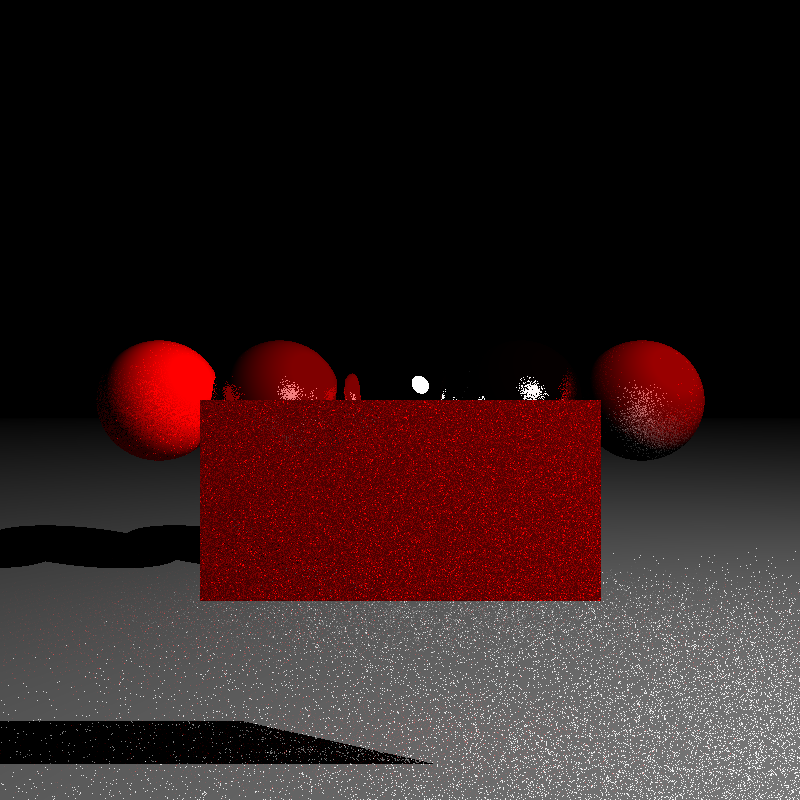
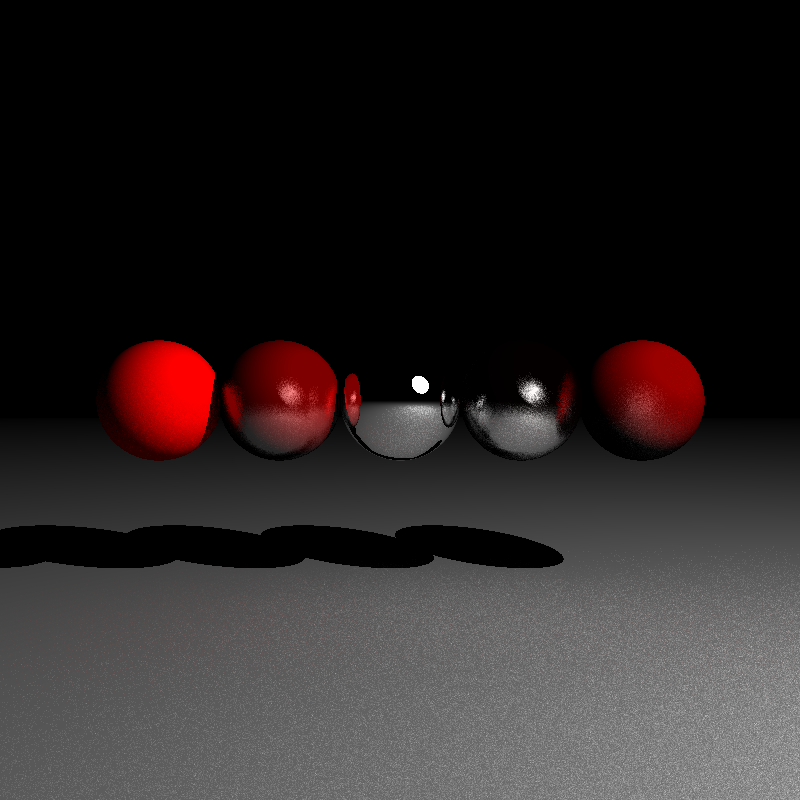
optimized code by caching values per ray sample

Changed region(s): [[0.0, 0.4688, 1.0, 1.0]]

diff --git a/main.cpp b/main.cpp
@@ -226,21 +226,50 @@ Vector gen_rand_vec() {
   }
   return normalize_vec(random_vec);
 }
- 
-Vector return_color(vector<Sphere> spheres, vector<Light> lights, Ray ray, vector<Triangle> triangles) {
-  Vector color = {0,0,0};
-  Vector reflective_color = {0,0,0};
+
+class Object {
+  public:
+    Sphere sphere;
+    Triangle triangle;
+    Material material;
+    Vector normal;
+    bool is_sphere;
+    bool is_object;
+    float min_time;
+    Object(Sphere s, float m) {
+      sphere = s;
+      material = sphere.material;
+      is_sphere = true;
+      is_object = true;
+      min_time = m;
+    }
+    Object(Triangle t, float m) {
+      triangle = t;
+      material = triangle.material;
+      is_sphere = false;
+      is_object = true;
+      min_time = m;
+      normal = triangle.normal;
+    }
+    Object() {
+      is_object = false;
+    }
+    void calc_normal(Vector coords) {
+      normal = normalize_vec(sub_vec(coords, sphere.center));
+    }
+};
+
+Object return_intersection(vector<Sphere> spheres, vector<Triangle> triangles, Ray ray) {
   float min_time = INFINITY;
-  Sphere closest_sphere;
+  Object closest_object;
   for (int i = 0; i<spheres.size(); i++) {
     float t = ray_sphere_interception(ray.direction, ray.start_pos, spheres[i].center, spheres[i].radius, ray.starting_t);
     if (t > 0 && t < min_time) {
       min_time = t;
-      closest_sphere = spheres[i];
+      closest_object = Object(spheres[i], min_time);
     }
   }
  
-  Triangle closest_triangle;
   for (int i = 0; i<triangles.size(); i++) {
     float t = ray_plane_interception(ray.start_pos, triangles[i].a1, triangles[i].normal, ray.direction, ray.starting_t);
     if (t>0 && t < min_time) {
@@ -248,94 +277,110 @@ Vector return_color(vector<Sphere> spheres, vector<Light> lights, Ray ray, vecto
       bool istriangle = point_on_triangle(triangles[i].a1, triangles[i].a2, triangles[i].a3, triang_coords);
       if (istriangle) {
         min_time = t;
-        closest_triangle = triangles[i];
-        closest_sphere = {{}, -1};
+        closest_object = Object(triangles[i], min_time);
       }
     }
   }
-  Material material_object = closest_sphere.radius == -1 ? closest_triangle.material : closest_sphere.material;
- 
-  if (min_time < INFINITY) {
-    if (material_object.islight > 0) {
-      return {
-        std::min((float)material_object.color[0] * material_object.islight, 255.0f),
-        std::min((float)material_object.color[1] * material_object.islight, 255.0f),
-        std::min((float)material_object.color[2] * material_object.islight, 255.0f),
-      };
+
+  return closest_object;
+}
+
+bool shadow_calc(vector<Light> lights, vector<Sphere> spheres, vector<Triangle> triangles, Object closest_object, Ray ray) {
+  Vector coords = get_coords_from_ray(ray.start_pos, closest_object.min_time, ray.direction);
+  bool in_shadow = false;
+  for (int l = 0; l<lights.size(); l++) {
+    Vector something = sub_vec(lights[l].position, coords);
+    for (int k = 0; k<spheres.size(); k++) {
+      float time;
+      if (spheres[k].material.islight > 0) {
+        continue;
+      } else {
+        time = ray_sphere_interception(something, coords, spheres[k].center, spheres[k].radius, 0.001);
+        if (time != 0) {
+          in_shadow = true;
+          break;
+        }
+      }
     }
-    Vector coords = get_coords_from_ray(ray.start_pos, min_time, ray.direction);
-    Vector normal = closest_sphere.radius != -1 ? normalize_vec(sub_vec(coords, closest_sphere.center)) : closest_triangle.normal;
- 
-    bool in_shadow = false;
-    for (int l = 0; l<lights.size(); l++) {
-      Vector something = sub_vec(lights[l].position, coords);
-      for (int k = 0; k<spheres.size(); k++) {
-        float time;
-        if (spheres[k].material.islight > 0) {
-          continue;
-        } else {
-          time = ray_sphere_interception(something, coords, spheres[k].center, spheres[k].radius, 0.001);
-          if (time != 0) {
+
+    if (!in_shadow) {
+      for (int k = 0; k<triangles.size(); k++) {
+        float time = ray_plane_interception(coords, triangles[k].a2, triangles[k].normal, something, 0.01);
+        if (time > 0) {
+          Vector triang_coords = get_coords_from_ray((coords), time, something);
+          bool istriangle = point_on_triangle((triangles[k].a1), triangles[k].a2, triangles[k].a3, triang_coords);
+          if (istriangle) {
             in_shadow = true;
             break;
           }
         }
       }
- 
-      if (!in_shadow) {
-        for (int k = 0; k<triangles.size(); k++) {
-          float time = ray_plane_interception(coords, triangles[k].a2, triangles[k].normal, something, 0.01);
-          if (time > 0) {
-            Vector triang_coords = get_coords_from_ray((coords), time, something);
-            bool istriangle = point_on_triangle((triangles[k].a1), triangles[k].a2, triangles[k].a3, triang_coords);
-            if (istriangle) {
-              in_shadow = true;
-              break;
-            }
-          }
-        }
-      }
     }
+  }
+
+  return in_shadow;
+}
+
+Vector return_color(vector<Sphere> spheres, vector<Light> lights, Ray ray, vector<Triangle> triangles, Object closest_object, bool in_shadow) {
+  Vector color = {0,0,0};
+  Vector reflective_color = {0,0,0};
  
+  if (closest_object.is_object) {
+    if (closest_object.material.islight > 0) {
+      return {
+        std::min((float)closest_object.material.color[0] * closest_object.material.islight, 255.0f),
+        std::min((float)closest_object.material.color[1] * closest_object.material.islight, 255.0f),
+        std::min((float)closest_object.material.color[2] * closest_object.material.islight, 255.0f),
+      };
+    }
+    Vector coords = get_coords_from_ray(ray.start_pos, closest_object.min_time, ray.direction);
+    if (closest_object.is_sphere) {
+      closest_object.calc_normal(coords);
+    }
+  
     if (!in_shadow) {
       float total_illum;
-      if (closest_sphere.radius == -1) {
-          normal = scale_vec(normal, -1);
+      if (closest_object.is_sphere == false) {
+          closest_object.normal = scale_vec(closest_object.normal, -1);
       }
-      total_illum = illumination_equation(lights, normal, coords);
+      total_illum = illumination_equation(lights, closest_object.normal, coords);
      
-      color.x = material_object.color[0] * total_illum > 255 ? 255 : material_object.color[0] * total_illum;
-      color.y = material_object.color[1] * total_illum > 255 ? 255 : material_object.color[1] * total_illum;
-      color.z = material_object.color[2] * total_illum > 255 ? 255 : material_object.color[2] * total_illum;
+      color.x = closest_object.material.color[0] * total_illum > 255 ? 255 : closest_object.material.color[0] * total_illum;
+      color.y = closest_object.material.color[1] * total_illum > 255 ? 255 : closest_object.material.color[1] * total_illum;
+      color.z = closest_object.material.color[2] * total_illum > 255 ? 255 : closest_object.material.color[2] * total_illum;
     } else {
       color.x = 0;
       color.y = 0;
       color.z = 0;
     }
     bool did_reflect = false;
-    if (material_object.reflectiveness > 0) {
+    if (closest_object.material.reflectiveness > 0) {
       ray.bounces += 1;
       if (ray.bounces <= MAX_BOUNCE_REFLECTION) {
-        Ray reflected_ray = {coords, reflect(normal, ray.direction), 1, 0.01, ray.bounces};
+        Ray reflected_ray = {coords, reflect(closest_object.normal, ray.direction), 1, 0.01, ray.bounces};
         Vector shiny_vec = {(float)rand(), (float)rand(), (float)rand()};
-        reflected_ray.direction = normalize_vec(add_vec(reflected_ray.direction, scale_vec(normalize_vec(shiny_vec), material_object.shinniness)));
-        reflective_color = return_color(spheres, lights, reflected_ray, triangles);
+        reflected_ray.direction = normalize_vec(add_vec(reflected_ray.direction, scale_vec(normalize_vec(shiny_vec), closest_object.material.shinniness)));
+        Object co = return_intersection(spheres, triangles, reflected_ray);
+        bool sha = shadow_calc(lights, spheres, triangles, co, reflected_ray);
+        reflective_color = return_color(spheres, lights, reflected_ray, triangles, co, sha);
       }
       did_reflect = true;
     }
-    color.x = color.x * (1-material_object.reflectiveness) * ray.intensity + reflective_color.x * material_object.reflectiveness;
-    color.y = color.y * (1-material_object.reflectiveness) * ray.intensity + reflective_color.y * material_object.reflectiveness;
-    color.z = color.z * (1-material_object.reflectiveness) * ray.intensity + reflective_color.z * material_object.reflectiveness;
+    color.x = color.x * (1-closest_object.material.reflectiveness) * ray.intensity + reflective_color.x * closest_object.material.reflectiveness;
+    color.y = color.y * (1-closest_object.material.reflectiveness) * ray.intensity + reflective_color.y * closest_object.material.reflectiveness;
+    color.z = color.z * (1-closest_object.material.reflectiveness) * ray.intensity + reflective_color.z * closest_object.material.reflectiveness;
     if (ray.bounces <= MAX_BOUNCE_REFLECTION && did_reflect == false) {
       Vector random_dir = gen_rand_vec();
-      if (dot_prod(random_dir, normal) < 0) {
+      if (dot_prod(random_dir, closest_object.normal) < 0) {
         random_dir = scale_vec(random_dir, -1);
       }
-      Ray diffuse_ray = {coords, normalize_vec(add_vec(normal, random_dir)),ray.intensity*0.5f, 0.001, ray.bounces};
-      Vector diffuse_color = return_color(spheres, lights, diffuse_ray, triangles);
-      color.x = color.x + diffuse_color.x * material_object.color[0] / 255.0f;
-      color.y = color.y + diffuse_color.y * material_object.color[1] / 255.0f;
-      color.z = color.z + diffuse_color.z * material_object.color[2] / 255.0f;
+      Ray diffuse_ray = {coords, normalize_vec(add_vec(closest_object.normal, random_dir)),ray.intensity*0.5f, 0.001, ray.bounces};
+      Object co = return_intersection(spheres, triangles, diffuse_ray);
+      bool sha = shadow_calc(lights, spheres, triangles, co, diffuse_ray);
+      Vector diffuse_color = return_color(spheres, lights, diffuse_ray, triangles, co, sha);
+      color.x = color.x + diffuse_color.x * closest_object.material.color[0] / 255.0f;
+      color.y = color.y + diffuse_color.y * closest_object.material.color[1] / 255.0f;
+      color.z = color.z + diffuse_color.z * closest_object.material.color[2] / 255.0f;
       color.x = std::min(color.x, 255.0f);
       color.y = std::min(color.y, 255.0f);
       color.z = std::min(color.z, 255.0f);
@@ -355,8 +400,8 @@ int main() {
   Vector camera_pos = {0,0,0};
  
   vector<Triangle> triangles = {
-    Triangle({-0.5f, -0.5, 2.0f},{ 0.5f, -0.5, 2.0f},{-0.5f,  0, 2.0f},{0, {255,0,0}, 0, 0}, {0,0,1}),
-    Triangle({0.5f, 0, 2.0f},{ 0.5f, -0.5, 2.0f},{-0.5f,  0, 2.0f},{0, {255,0,0}, 0, 0}, {0,0,1}),
+    // Triangle({-0.5f, -0.5, 2.0f},{ 0.5f, -0.5, 2.0f},{-0.5f,  0, 2.0f},{0, {255,0,0}, 0, 0}, {0,0,1}),
+    // Triangle({0.5f, 0, 2.0f},{ 0.5f, -0.5, 2.0f},{-0.5f,  0, 2.0f},{0, {255,0,0}, 0, 0}, {0,0,1}),
   };
  
   // triangles[0].rotate_x(30, {0, 0,0});
@@ -376,9 +421,9 @@ int main() {
     {lights[0].position, 1.2, {1, {255, 255,255},0,0}},
   };
  
-  camera_pos = rotate_around_x(camera_pos, -30, {0,0,0});
+  // camera_pos = rotate_around_x(camera_pos, -30, {0,0,0});
  
-  constexpr int ray_samples = 1;
+  constexpr int ray_samples = 10;
  
   for (int y = 0; y<HEIGHT; y++) {
     // std::cout << y << "/" << HEIGHT << std::endl;
@@ -386,14 +431,18 @@ int main() {
       Vector final_color = {0,0,0};
       Vector viewport_coords = {canvas_to_viewport(x, viewport_w, WIDTH),-canvas_to_viewport(y, viewport_h, HEIGHT),d};
       Vector direction = sub_vec(viewport_coords, camera_pos);
+
+      Ray ray = {camera_pos, direction, 1, 1, 0};
+      Object closest_object = return_intersection(spheres, triangles, ray);
+      bool in_shadow = shadow_calc(lights, spheres, triangles, closest_object, ray);
+
       for (int i = 0; i<ray_samples; i++) {
         // float angle = 20.0 / 360 * 2*3.14;
         // direction.y = cosf(angle) * direction.y + -sinf(angle) * direction.z + 0;
         // direction.z = sinf(angle) * direction.y + cosf(angle) * direction.z + 0;
         // direction.x = cosf(angle) * direction.x + sinf(angle) * direction.z + 0;
         // direction.z = -sinf(angle) * direction.x + cosf(angle) * direction.z + 0;
-        Ray ray = {camera_pos, direction, 1, 1, 0};
-        Vector color = return_color(spheres, lights, ray, triangles);
+        Vector color = return_color(spheres, lights, ray, triangles, closest_object, in_shadow);
         final_color.x += color.x;
         final_color.y += color.y;
         final_color.z += color.z;